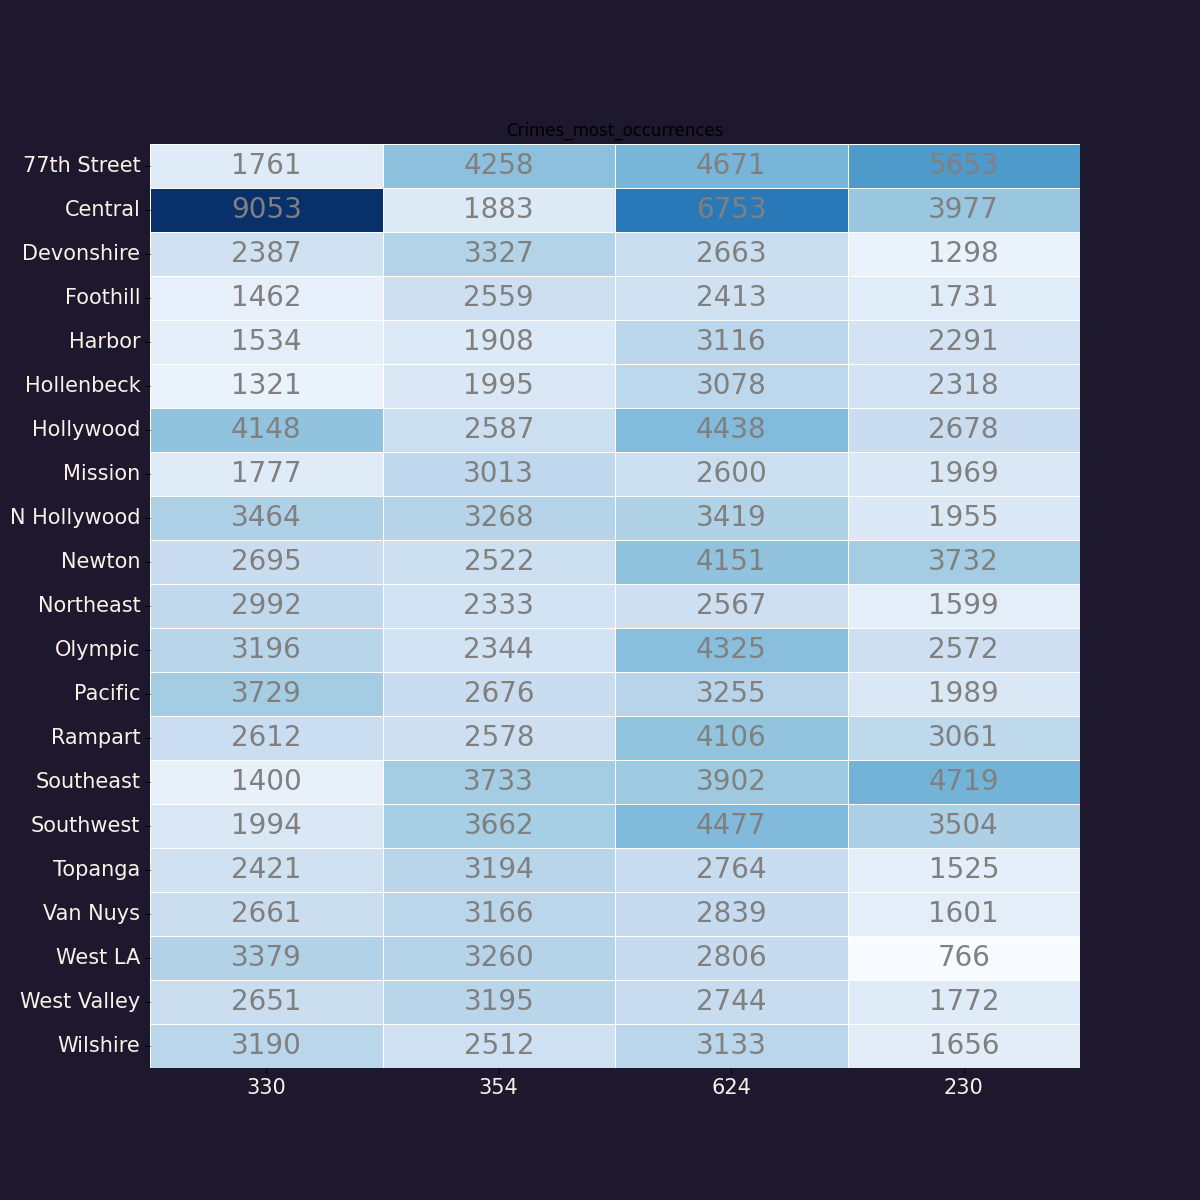
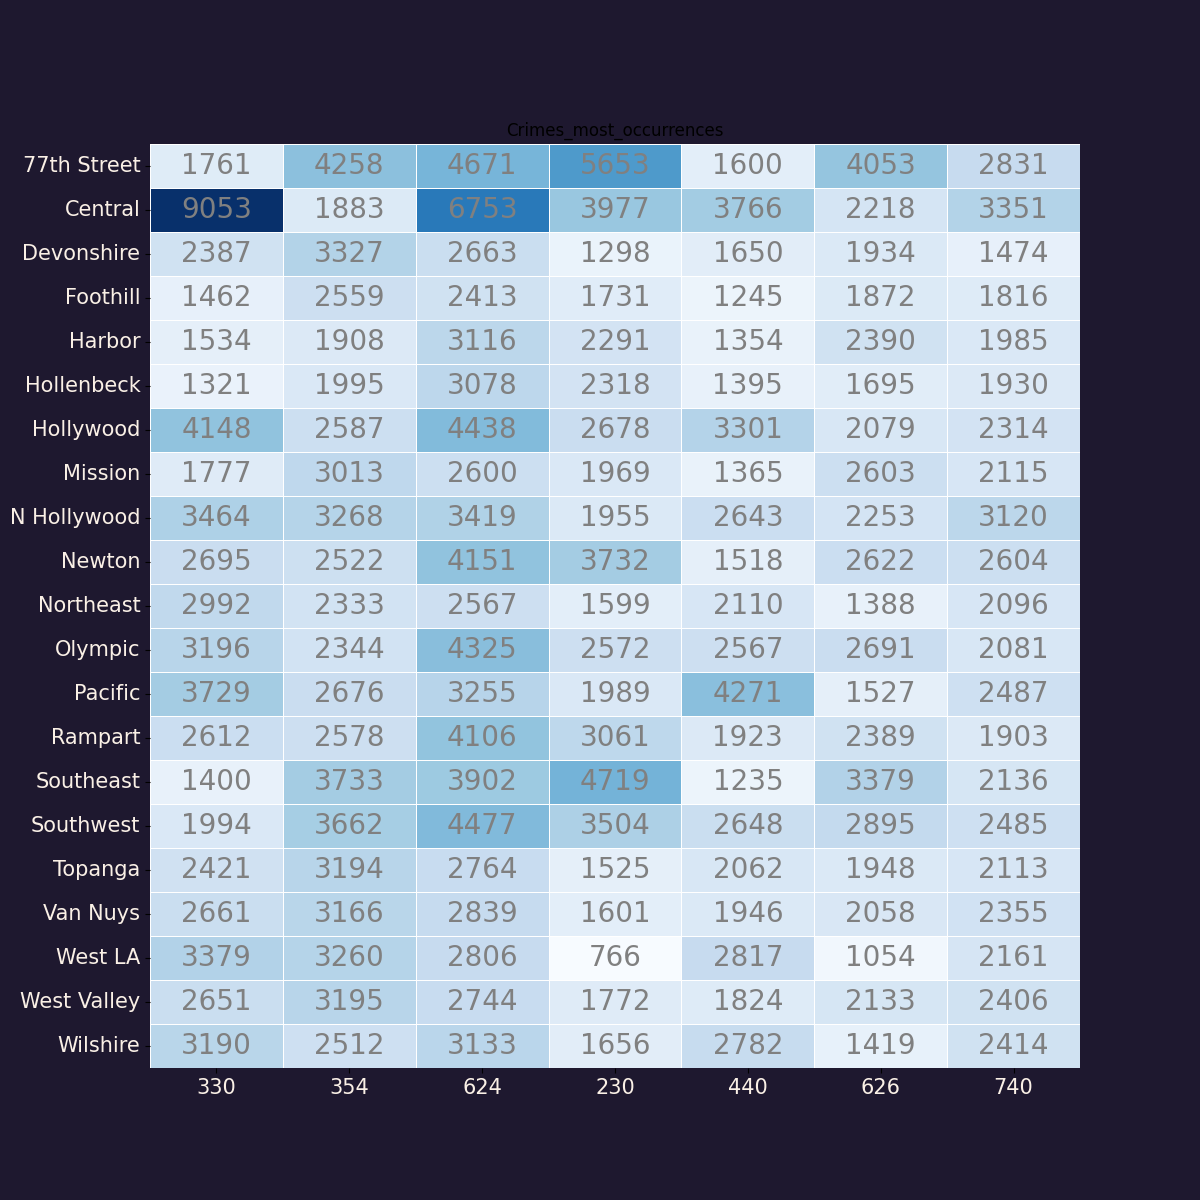
names fix

Changed region(s): [[0.1542, 0.1233, 0.925, 0.925]]

diff --git a/src/hypothesis_one/plotgraphics_h1.py b/src/hypothesis_one/plotgraphics_h1.py
@@ -39,7 +39,7 @@ def plot_h1(df_Base,df_map):
 
 
     df_grupos = hp.groups(df_Base, 'Crm Cd', 'AREA NAME', 0)
-    df_heatmap = hp.groups(df_Base,'Crm Cd', 'AREA NAME', 50000)
+    df_heatmap = hp.groups(df_Base,'Crm Cd', 'AREA NAME', 45000)
 
 
     df_map['low'] = hp.severity(df_grupos, 'low' )
